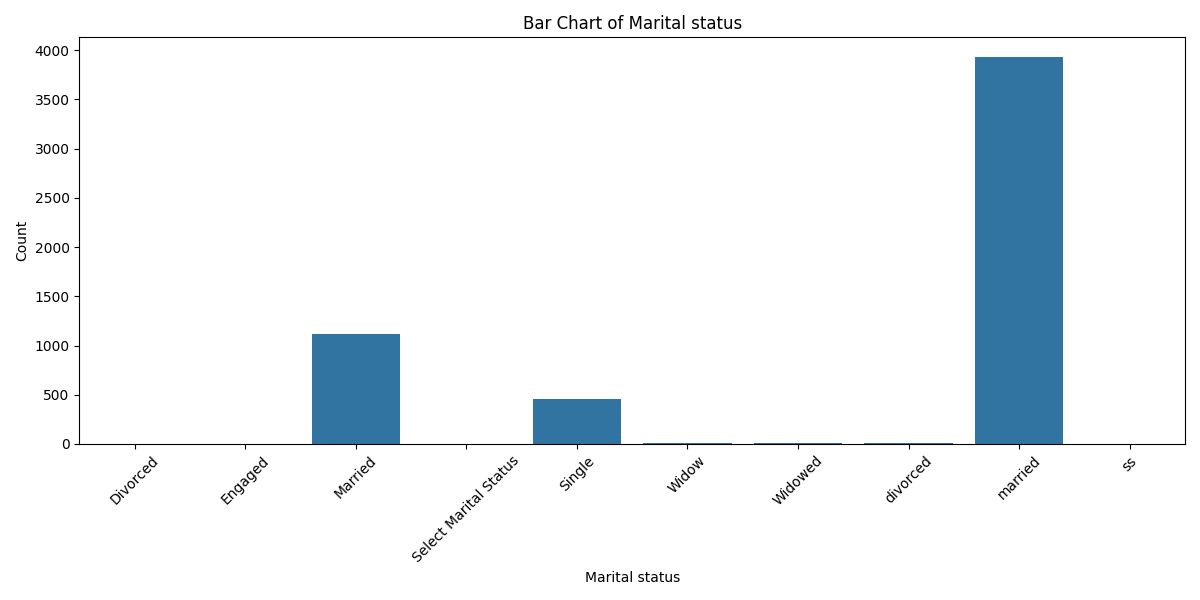
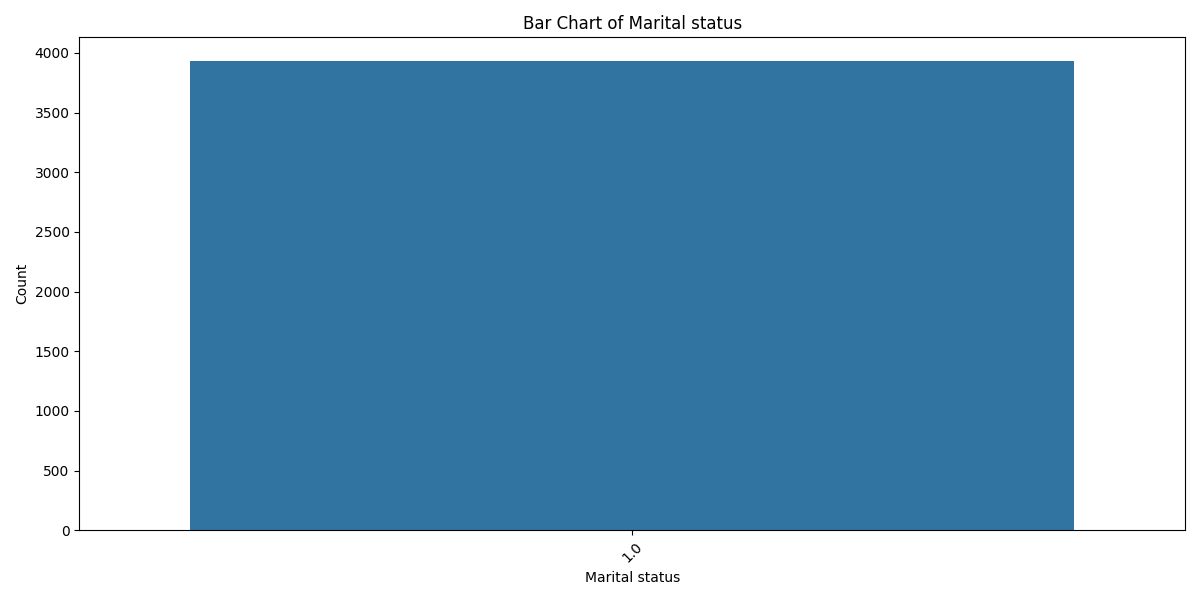
Manual Mapping
Mappings for Each Categorical Column Age', 'Sex', 'Smoking', 'Marital status'

diff --git a/src/main.py b/src/main.py
@@ -4,19 +4,21 @@ from thyroid_analysis.data_loader import load_excel_dataset
 from thyroid_analysis.preprocessing import (
     remove_duplicates,
     convert_columns_to_numeric,
-    enforce_column_types
+    enforce_column_types,
+    encode_categorical_columns
 )
 from thyroid_analysis.eda import analyze_categorical_columns
 
 def main():
-    # Step 0: Load the dataset
     file_path = 'data/ExactRealDatasetLU.xlsx'
+    
+    # Step 0: Load data
     df = load_excel_dataset(file_path)
 
     # Step 1: Remove duplicate rows
     df = remove_duplicates(df, verbose=True)
 
-    # Step 2: Convert relevant thyroid columns to numeric (coerce errors)
+    # Step 2: Convert thyroid-related columns to numeric
     thyroid_columns = [
         'first TSH', 'last TSH', 'first T4', 'last T4',
         'first T3', 'first FT4', 'last FT4', 'first FT3', 'last FT3'
@@ -26,17 +28,20 @@ def main():
     # Step 3: Enforce correct data types
     df = enforce_column_types(df)
 
-    # Step 4: Analyze categorical variables
+    # Step 4: Encode categorical columns
+    df = encode_categorical_columns(df, verbose=True)
+
+    # Step 5: Analyze and save categorical column bar charts
     categorical_columns = ['Sex', 'Smoking', 'Marital status']
     analyze_categorical_columns(
         df,
         columns=categorical_columns,
-        show_plots=False,  # Set to True if you want to view them interactively
-        save_dir="outputs/eda"  # Save visualizations here
+        show_plots=False,
+        save_dir="outputs/eda"
     )
 
-    # Step 5: Final data preview
-    print("\nPreview of final cleaned and typed dataset:")
+    # Step 6: Final data preview
+    print("\nPreview of final cleaned and encoded dataset:")
     print(df.head(10))
 
 

diff --git a/src/thyroid_analysis/preprocessing.py b/src/thyroid_analysis/preprocessing.py
@@ -61,3 +61,35 @@ def enforce_column_types(df: pd.DataFrame, verbose: bool = True) -> pd.DataFrame
         print(df[list(type_map.keys())].dtypes)
 
     return df
+
+
+def encode_categorical_columns(df: pd.DataFrame, verbose: bool = True) -> pd.DataFrame:
+    """
+    Apply predefined mappings to categorical columns: Sex, Smoking, Marital status.
+    """
+    sex_mapping = {'Male': 0, 'Female': 1}
+    smoking_mapping = {'No': 0, 'Passive': 1, 'Active': 2}
+    marital_status_mapping = {'single': 0, 'married': 1}
+
+    df['Sex'] = df['Sex'].map(sex_mapping)
+    df['Smoking'] = df['Smoking'].map(smoking_mapping)
+    df['Marital status'] = df['Marital status'].map(marital_status_mapping)
+
+    if verbose:
+        print("\nEncoded values (Age, Sex, Smoking, Marital status):")
+        print(df[['Age', 'Sex', 'Smoking', 'Marital status']].head())
+
+        # Check for unmapped values
+        if df['Sex'].isnull().any():
+            print("\n⚠ Unmapped 'Sex' values:")
+            print(df[df['Sex'].isnull()])
+
+        if df['Smoking'].isnull().any():
+            print("\n⚠ Unmapped 'Smoking' values:")
+            print(df[df['Smoking'].isnull()])
+
+        if df['Marital status'].isnull().any():
+            print("\n⚠ Unmapped 'Marital status' values:")
+            print(df[df['Marital status'].isnull()])
+
+    return df
